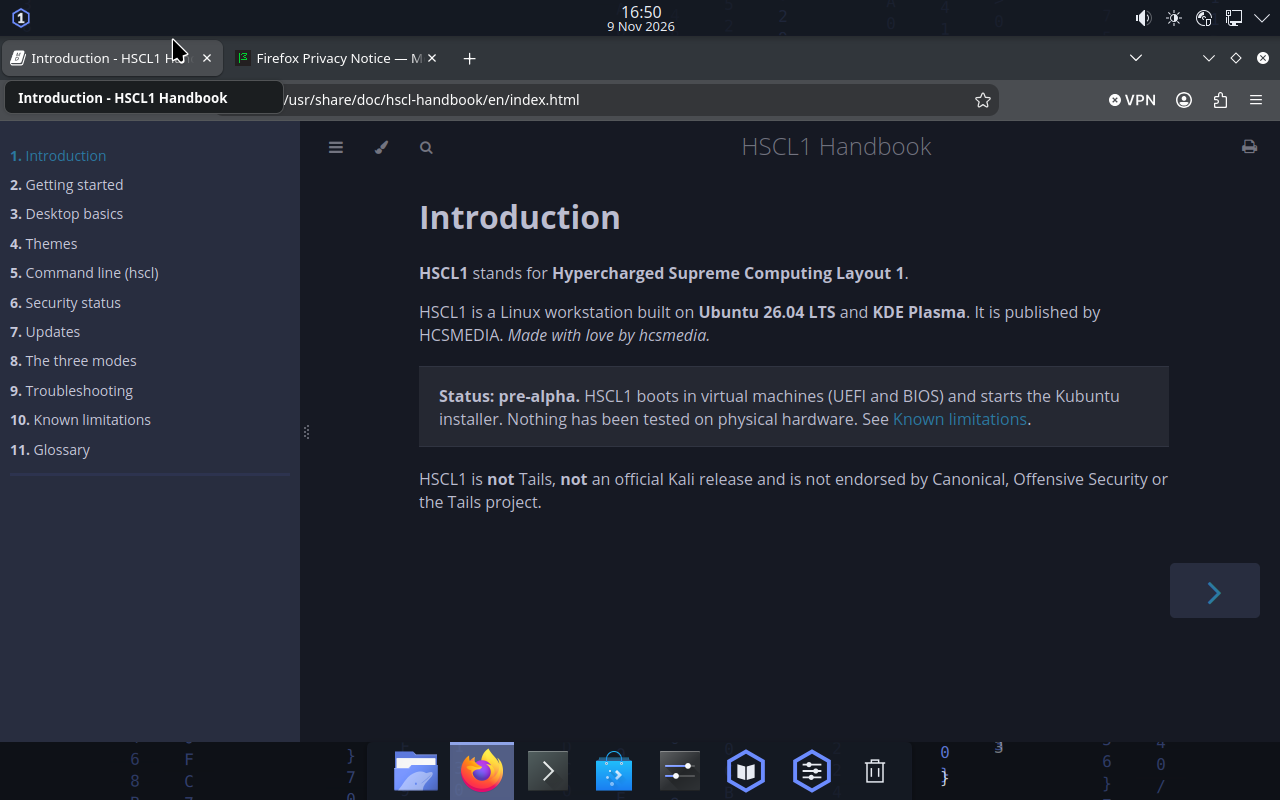
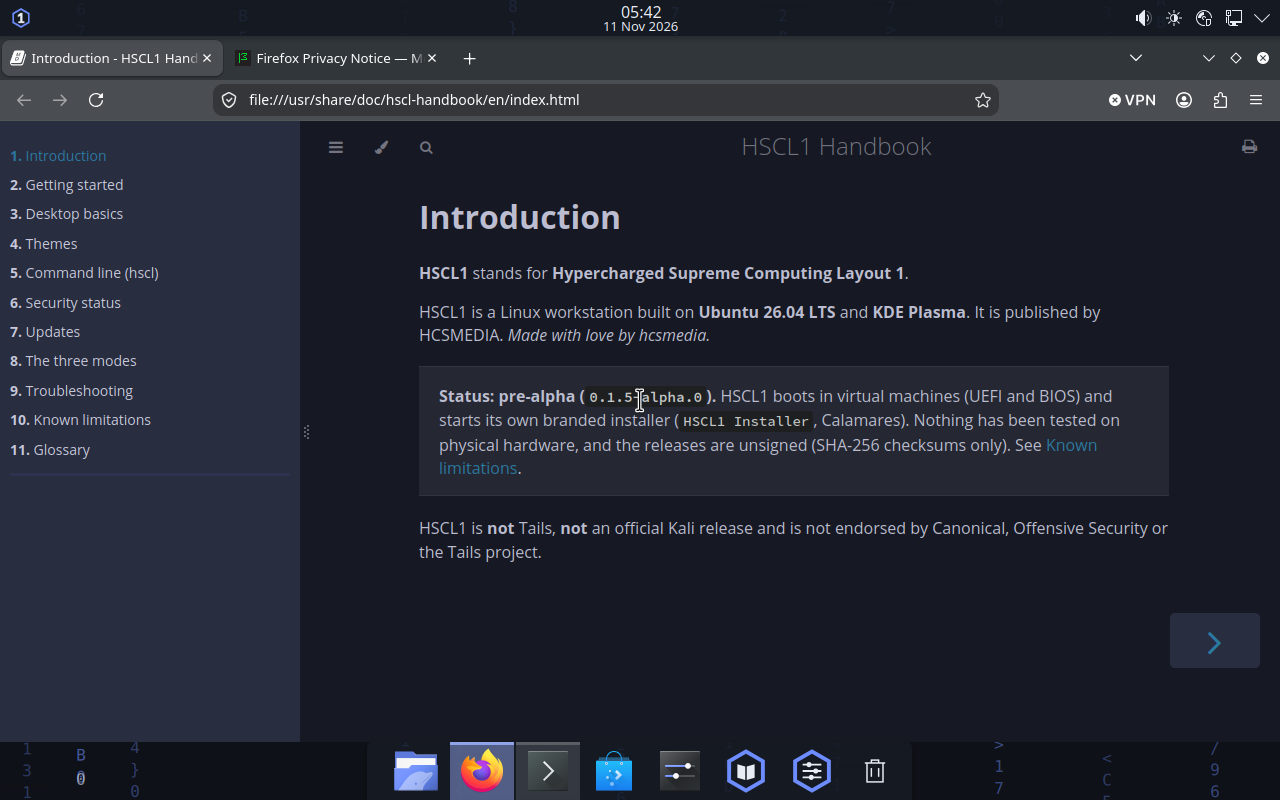
docs(showcase): the offline handbook is captured on rc6; Q-54 and Q-03 closed

diff --git a/docs/AUTONOMOUS_QUEUE.md b/docs/AUTONOMOUS_QUEUE.md
@@ -14,7 +14,7 @@ booted-artifact evidence missing).
 |---|---|---|---|
 | Q-01 | Desktop icon label legibility (Plasma FolderView foreground/shadow) | static config test + VM screenshot | **VM-VERIFIED 2026-11-09** — labels are white and legible on the new candidate; same root cause as Q-07 |
 | Q-02 | Launcher duplicate/mixed-language sections | `test_menu_file.py` + bilingual VM screenshot | **VM-VERIFIED (English) 2026-11-09** — one entry per category, no duplicates; DE/FR titles come from `.directory` files and are untested in a running session |
-| Q-03 | Recapture the handbook screenshot with a visible handbook window | pixel check of the caption subject | **VM-VERIFIED 2026-11-09** — the candidate run opened the desktop handbook icon; the capture (Firefox on `/usr/share/doc/hscl-handbook/en/index.html`) replaces the false one, is listed in the manifest with `source_iso`, and is back in the README |
+| Q-03 | Recapture the handbook screenshot with a visible handbook window | handbook window visible in the capture (done) | **DONE 2026-11-11** - `artifacts/boot-handbook-rc6/hb3-after-100s.png` is a booted rc6 capture with the handbook window in front (page `/usr/share/doc/hscl-handbook/en/index.html`, sidebar visible), and it is the showcase image `13_offline_handbook.png`. |
 | Q-04 | Installer top-bar clipping + localized step labels | VM screenshot at 1280×800 | **VM-VERIFIED 2026-11-10 on `HSCL1-qa-green` (`5d4ea47e…`) at 4 GB** - centred 1104x668 window, top bar and controls fully visible, logo unclipped, all ten step labels present, and the welcome heading carries the full version `HSCL1 0.1.4-alpha.0`. `artifacts/boot-walk-green/t01`, `t06`, `t07`. The earlier REGRESSED row was the desktop-icon SIGKILL (Q-46), not clipping. Step labels follow Calamares' own translations once a language is chosen. |
 | Q-05 | Reconcile `CLAIMS.md` artifact identity with `VERSION`/README | `docs/CLAIMS.md` header matches `VERSION` and release assets | DONE (2026-11-09, header names v0.1.4-alpha.0 and marks every row artifact-bound) |
 | Q-06 | Qt/QML test runner in WSL (`qt6-declarative-dev-tools`) | `qmltestrunner` + `qmllint` execute `tests/qml_plugin` and `tst_pages.qml` | DONE (2026-11-09: tools live in `/usr/lib/qt6/bin`; `scripts/dev/qml-gate.sh` runs both suites + qmllint, wired into `forge check` as `qml (WSL)`) |
@@ -56,7 +56,7 @@ booted-artifact evidence missing).
 | Q-19 | Reduce `qmllint` `[unqualified]` warnings in the Control Center (23 of 152) | `qml-gate.sh` warning budget lowered | **REDUCED 2026-11-10 (153 -> 149)** - `Main.qml` now reads the `cli` context property once into a declared `cliBackend` member and the five page bindings are qualified (`backend: win.cliBackend`), so exactly one unqualified access remains (the single context-property read). `test_cc_wiring.py` asserts both the 5 qualified bindings and the single read; the QML gate passes with 149 warnings. The remaining 149 are `[unqualified]` in Repeater delegates and the rain wallpaper plugin; each needs a per-file `required property` pass, which is mechanical but large. |
 | Q-52 | Desktop icon labels are italic and not centred under their icons | upright labels in a booted rc4 capture (done for the italic part) | **CLOSED for the italics 2026-11-11** - verified on rc4 (`2277a09c…`, `artifacts/boot-visual-rc4/v1-desktop-labels.png`): all three labels are upright. Root cause was Plasma's `FolderItemDelegate.qml` (`font.italic: model.isLink`), and the entries were symlinks; they are real `.desktop` files now, the image gate rejects a symlink, `tests/unit/test_desktop_link_labels.py` pins it. The remaining two-line wrap alignment is split off as **Q-60**. |
 | Q-53 | Kate renders light inside the dark shell while Dolphin/Konsole are dark | luminance comparison of Dolphin, Kate and Konsole on one artifact (done on rc4) | **CLOSED 2026-11-11** - `artifacts/boot-visual-rc4/v2-kate.png` shows Kate with `/etc/os-release` opened on rc4: window chrome, menu bar and editor area are dark like Dolphin and Konsole. The hook ships `/etc/skel/.config/katerc` with `[UiSettings] ColorScheme=Breeze Dark`, `[KTextEditor Renderer] Color Theme=Breeze Dark` and `Auto Color Theme Selection=false`; `tests/unit/test_kate_dark_default.py` pins the keys. The showcase image `14_app_kate.png` is that capture. |
-| Q-54 | Recapture installer welcome/encryption and handbook screenshots on `rc2` | `manifest.json` entry with `source_iso` per image | **PARTIAL 2026-11-11** - the installer pages are refreshed from the rc3 LUKS run, which is the first run through the software-rendering wrapper: `11_installer_welcome.png` (l01), `19_installer_partitions.png` (l02) and a new `21_installer_encryption_luks.png` (l03: erase disk + encrypt with the LUKS2 plan). `18_installer_notes_encryption.png` stays from 2026-11-09 - the notes text is unchanged, but it is not an rc3 capture and the manifest keeps that older timestamp. The **handbook** page is still open; it needs a boot where `hscl-handbook` opens in a visible window. |
+| Q-54 | Recapture installer welcome/encryption and handbook screenshots on `rc2` | installer pages plus the handbook captured on a booted candidate (done) | **DONE 2026-11-11** - the installer pages come from the rc3 LUKS run through the wrapper (`11_installer_welcome`, `19_installer_partitions`, new `21_installer_encryption_luks`), and the **handbook** is captured now: `artifacts/boot-handbook-rc6/hb3-after-100s.png` shows the mdBook page with its sidebar and the honest pre-alpha status block, copied to `13_offline_handbook.png`. The earlier empty tab was a too-short wait; 100 s is enough. `18_installer_notes_encryption.png` keeps its 2026-11-09 capture because the notes text did not change, and the manifest keeps that timestamp. |
 | Q-55 | Website hero and Control Center image are older than the current candidate | `website/dist/img/*` refreshed + `test_website_build.py` green | **DONE (wording + images) 2026-11-10** - the generator now copies `showcase/01_desktop_clean.png` and `showcase/04_control_center_overview.png`; EN/DE/FR status bullets name the verified lab chain and the Secure Boot fact. A capture from the 0.1.5 candidate is still pending, so the images are the newest verified ones rather than brand new. |
 | Q-56 | The published `v0.1.4-alpha.0` ISO predates the tree by 118 commits | new candidate built from `HEAD`, VM-verified, split, released; `release.json` + README synced | **DONE 2026-11-10** - `HSCL1-0.1.5-alpha.0-amd64.iso` (`c3ae31a6…`, 5 027 135 488 B, source `406186d`, xz) built, UEFI-booted at 4 GB (desktop 242 s, `qa_report.py` exit 0), split into 3 parts whose rejoin hash equals the ISO, tagged `v0.1.5-alpha.0` and published as a prerelease with 8 assets; `website/data/release.json` and the README download section carry the new checksums. Four later commits touch tests/docs/one `rustfmt` reflow only and the notes say so. |
 | Q-57 | Wallpaper preset switching may not take effect: `grid` and `rain` captures render as **starfield** | four visibly different frames from one boot | **CLOSED 2026-11-11** - one rc3 boot, four shots after `hscl appearance wallpaper set` with the real preset ids: aurora 70 293 B / 7 168 colours, starfield 47 377 / 6 064, grid pulse 53 912 / 6 114, midnight rain 182 660 / 23 821 - all visibly different (`artifacts/boot-wallpapers-rc3/wd1`…`wd4`), and the showcase now shows all four. The 2026-11-10 series had typed effect names (`grid`, `rain`), which are not preset ids; `wd5` shows that error. `wallpaper::find` now names the presets that carry an effect (unit test `an_effect_name_points_at_the_presets_that_carry_it`). |
